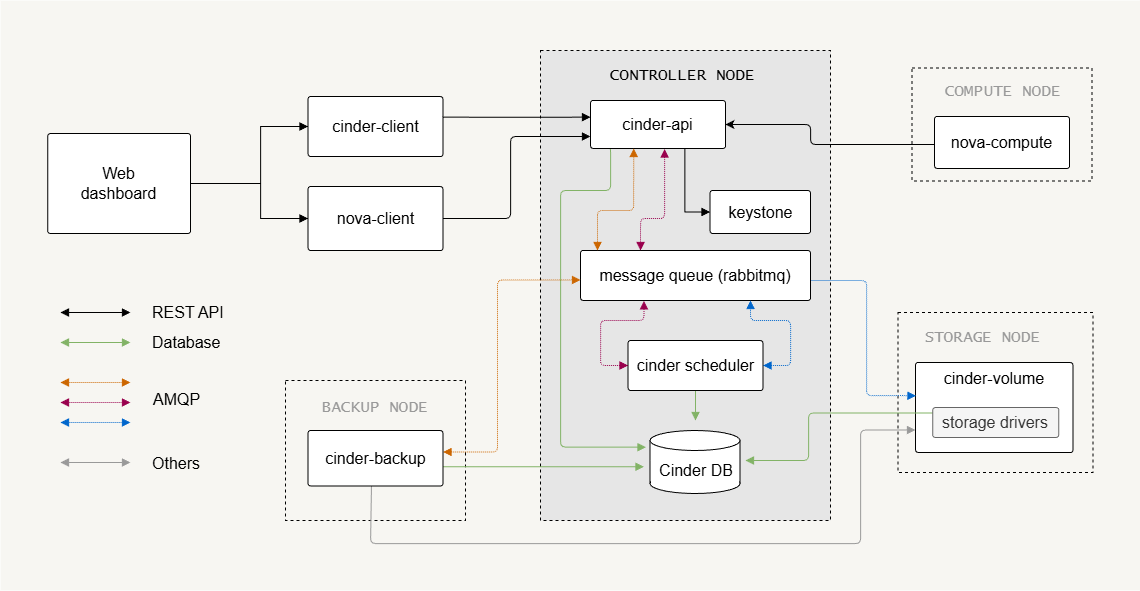
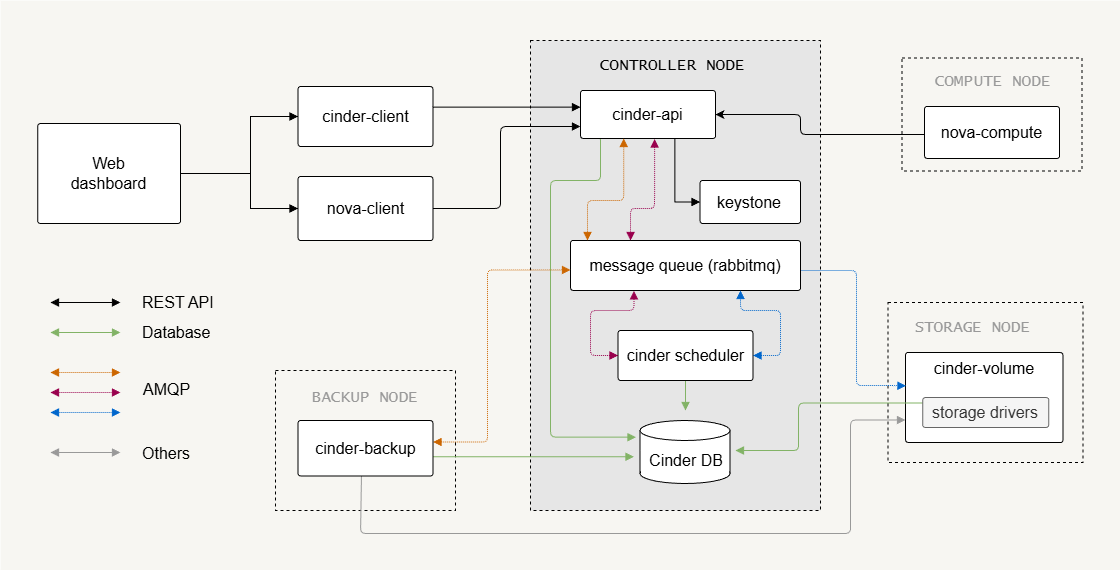
Migrate notes

diff --git a/docs/038-OpenStack/002-Fundamentals/024-Cinder.md b/docs/038-OpenStack/002-Fundamentals/024-Cinder.md
@@ -138,24 +138,29 @@ Each backend has different hardware requirements, configuration complexity, and 
 
 ## Storage Network Connectivity
 
-Storage traffic may use a dedicated network.
+The storage traffic can be isolated on a dedicated network to improve performance and reliability.
 
-- Management network handles control communication
 - Storage network carries volume data traffic
+- Management network handles control communication
 - High traffic environments benefit from separate networks
 
-Storage nodes must always connect to the management network because the Cinder service communicates with the control plane.
+Storage nodes must always connect to the management network because the Cinder service communicates with the control plane. If storage data traffic is large, it is recommended to use a **separate storage network**. This prevents storage traffic from affecting normal cloud operations.
 
-If storage data traffic is large, it is recommended to use a **separate storage network**. This prevents storage traffic from affecting normal cloud operations.
+Protocols used for storage transport:
 
-Protocols used for storage transport include:
+- Fibre Channel - High performance, but requires specialized hardware 
+- iSCSI - Uses standard Ethernet, and is more widely used
 
-- Fibre Channel
-- iSCSI
+<div class='img-center'>
 
-Fibre Channel provides excellent performance but requires specialized hardware. iSCSI uses standard Ethernet networking and is more common in many OpenStack deployments.
+![](/img/docs/all-things-openstack-cinder-storage-networks.png)
 
-## Cinder Storage Node Configuration
+</div>
+
+
+## Cinder Configurations 
+
+### Storage Node Configuration
 
 The first step in configuring storage nodes is installing the Cinder volume service.
 
@@ -195,7 +200,25 @@ connection = mysql+pymysql://cinder:password@controller/cinder
 
 These parameters allow the storage node to communicate with the control plane and manage storage operations correctly.
 
-## LVM Backend Example
+### Control Node Configuration
+
+The control node hosts the main Cinder services.
+
+1. Create the Cinder database
+2. Create the Cinder service user
+3. Register Cinder services in the service catalog
+4. Install Cinder API and scheduler
+
+OpenStack Cinder provides **two API versions**, each with its own service endpoint that is typically registered: 
+
+- Cinder v2
+- Cinder v3
+
+After installing the packages, the control node must also configure Nova so instances can attach volumes created by Cinder.
+
+## Storage Backend Examples 
+
+### LVM Backend 
 
 LVM is commonly used in small or test deployments because it is easy to configure.
 
@@ -247,7 +270,7 @@ Important variables in this configuration:
 
 This configuration allows OpenStack to create volumes using the LVM backend.
 
-## External Storage Backend Example
+### External Storage Backend 
 
 Enterprise storage systems often provide dedicated Cinder drivers.
 
@@ -272,29 +295,11 @@ Important variables:
 
 Multiple backends can share the same backend name. When this happens, the **Cinder scheduler decides which backend stores the volume**.
 
-## Control Node Configuration
 
-The control node hosts the main Cinder services.
-
-- Create the Cinder database
-- Create the Cinder service user
-- Register Cinder services in the service catalog
-- Install Cinder API and scheduler
-
-Two versions of the Cinder API are usually registered:
-
-- Cinder v2
-- Cinder v3
-
-Each version has its own service endpoint.
-
-After installing the packages, the control node must also configure Nova so instances can attach volumes created by Cinder.
-
-These steps allow compute nodes and users to access the block storage service.
 
 ## Cinder Backup Service
 
-Cinder includes an optional backup component that allows volumes to be backed up.
+Cinder includes an optional backup component that allows allows administrators to protect persistent storage volumes and restore them when necessary.
 
 - Cinder backup performs volume backups
 - Backup data can be stored in object storage
@@ -307,20 +312,17 @@ Common backup backends include:
 
 To enable backups, install the backup service and configure it in `cinder.conf`.
 
-Example configuration:
-
 ```ini
 [DEFAULT]
 backup_driver = cinder.backup.drivers.swift.SwiftBackupDriver
 backup_swift_url = http://controller:8080/v1/AUTH_
 ```
 
-Important variables:
+Notes:
 
 - `backup_driver` selects the backup backend
 - `backup_swift_url` defines the Swift storage endpoint
 
-The backup service allows administrators to protect persistent storage volumes and restore them when necessary.
 
 ## Version Notes
 
